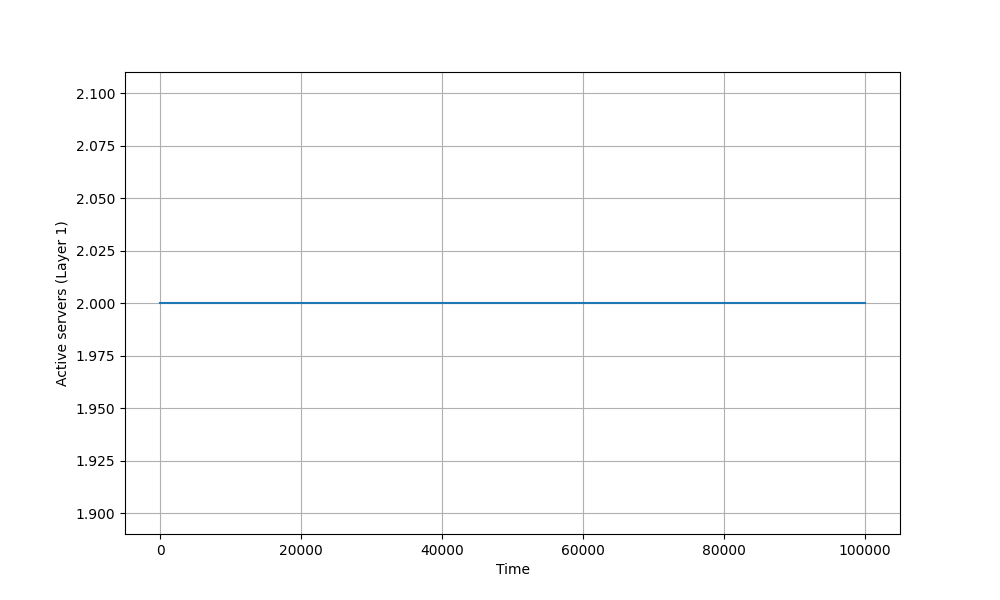
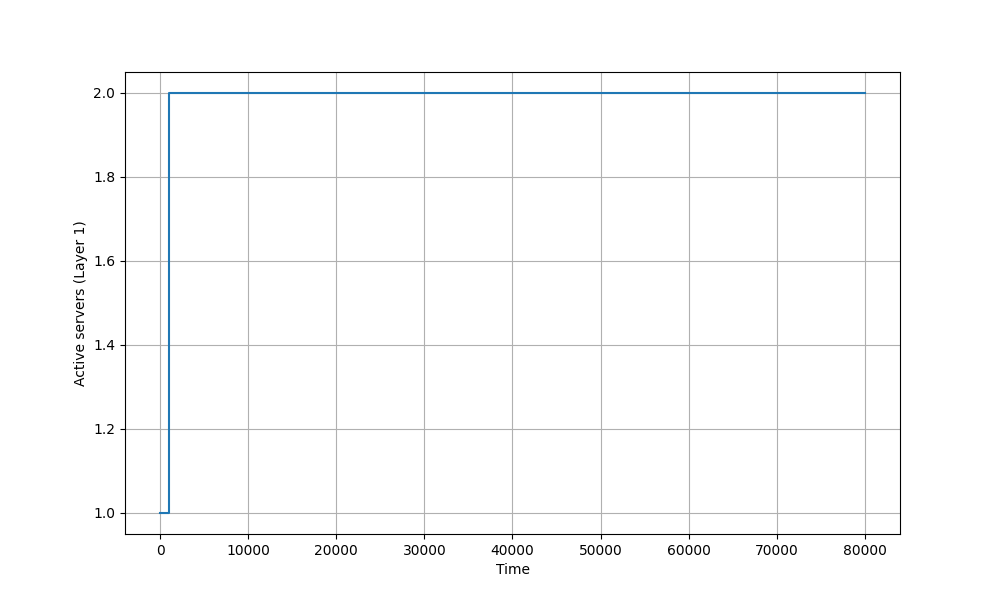
seconda prova sim scaling

diff --git a/simulation/scaling_simulator.py b/simulation/scaling_simulator.py
@@ -55,14 +55,14 @@ def update_completion_B(jobs, current_time, m_servers: int):
  
 def adjust_servers_layer1(stats, lambda_current):
     """Aggiunge o rimuove server nel layer 1 in base a λ corrente e ai parametri RHO_UP/RHO_DOWN."""
-    servers = stats.layer1_servers
+    stats.layer1_servers
 
     # se non ci sono server accesi, accendiamo il primo
-    if not servers:
-        servers.append({"id": 0, "jobs": {}})
+    if not stats.layer1_servers:
+        stats.layer1_servers.append({"id": 0, "jobs": {}})
         return
 
-    num = len(servers)
+    num = len(stats.layer1_servers)
     mu = BASE_MU_LAYER1      # tasso di servizio per UN server del layer 1
 
     if num <= 0:
@@ -72,18 +72,17 @@ def adjust_servers_layer1(stats, lambda_current):
 
     # scala in su
     if rho > RHO_UP and num < MAX_SERVERS:
-        new_id = max(s["id"] for s in servers) + 1
-        servers.append({"id": new_id, "jobs": {}})
-        print(f"[SCALING L1] +1 server, tot={len(servers)}")
+        new_id = max(s["id"] for s in stats.layer1_servers) + 1
+        stats.layer1_servers.append({"id": new_id, "jobs": {}})
+        print(f"[SCALING L1] +1 server, tot={len(stats.layer1_servers)}")
 
     # scala in giù
     elif rho < RHO_DOWN and num > MIN_SERVERS:
-        # rimuovo solo server vuoti
-        for s in servers:
-            if not s["jobs"]:
-                servers.remove(s)
-                print(f"[SCALING L1] -1 server, tot={len(servers)}")
-                break
+    # nel modello pooled, non usiamo più s["jobs"]
+    # rimuovo un server solo se ci sono meno job che server
+        if len(stats.B_jobs) < num:
+            stats.layer1_servers.pop()
+            print(f"[SCALING L1] -1 server, tot={len(stats.layer1_servers)}")
 
 
 
@@ -130,7 +129,7 @@ def execute(stats, stop):
         for job in stats.A_jobs.values():
             job["rem"] -= delta
 
-    mB = len(stats.layer1_servers) if hasattr(stats, "layer1_servers") and stats.layer1_servers else 1 # numero di server attivi nel layer 1
+    mB = len(stats.layer1_servers) if stats.layer1_servers else 1 # numero di server attivi nel layer 1
     # --- B: aggiornamento aree e servizio (PS) ---
     if stats.B_jobs:
         nB = len(stats.B_jobs) # numero di job in B
@@ -146,7 +145,7 @@ def execute(stats, stop):
 
     # --- SPIKE: aggiornamento aree e servizio (PS) ---
     if stats.spike_server:
-        nS = len(stats.spike_server)
+        nS = len(stats.spike_server) # numero di job nello spike server
         stats.area_spike.node += dt * nS
         stats.area_spike.service += dt
         delta = dt / nS
@@ -164,15 +163,7 @@ def execute(stats, stop):
     if stats.t.current == stats.t.arrival:
         print(f"ARRIVAL | current: {stats.t.current:.4f}")
 
-        # SCALING ORIZZONTALE: aggiorno il numero di server del layer 1
-        # SCALING ORIZZONTALE: usa lambda variabile
-        lam_now = lambda_scaling(stats.t.current)
-        adjust_servers_layer1(stats, lambda_current=lam_now)
-
-        # (opzionale) salva lambda per i plot
-        if not hasattr(stats, "lambda_times"):
-            stats.lambda_times = []
-        stats.lambda_times.append((stats.t.current, lam_now))
+        
 
         jid = stats.next_job_id
         stats.next_job_id += 1
@@ -199,6 +190,16 @@ def execute(stats, stop):
         if job["classe"] == 1:
             # job classe 1 → B oppure SPIKE in base a SI
             # SI = numero di job nel layer 1 (qui usiamo B come layer1 aggregato)
+
+            # SCALING ORIZZONTALE: aggiorno il numero di server del layer 1
+            # SCALING ORIZZONTALE: usa lambda variabile
+            lam_now = lambda_scaling(stats.t.current)
+            adjust_servers_layer1(stats, lambda_current=lam_now)
+
+            # (opzionale) salva lambda per i plot
+            if not hasattr(stats, "lambda_times"):
+                stats.lambda_times = []
+            stats.lambda_times.append((stats.t.current, lam_now))
 
             SI = len(stats.B_jobs)
             stats.SI_samples.append(SI)
@@ -378,72 +379,6 @@ def scaling_finite_simulation(stop):
     return return_stats(stats, horizon, s), stats
 
 
-# =========================
-#   SIMULAZIONE INFINITA
-# =========================
-
-def scaling_infinite_simulation(stop):
-    """
-    Simulazione INFINITA con scaling dinamico.
-    
-    """
-    global return_times_P
-    return_times_P = []
-
-    batch_stats = ReplicationStats()
-
-    s = getSeed()
-    reset_arrival_temp_scaling()
-
-    stats = SimulationStats()
-    stats.reset(vs.START)
-
-    stats.layer1_servers = [{"id": 0, "jobs": {}}]
-
-    stats.t.arrival = GetArrivalScaling(stats.t.current)
-
-    start_time = stats.t.current
-
-    while len(batch_stats.A_avg_wait) < vs.K:          # ciclo sui batch
-        stats.job_arrived = 0                          # reset counter arrivi batch
-        stats.index_A1 = stats.index_A2 = stats.index_A3 = 0
-        stats.index_B = stats.index_P = 0
-
-        while stats.job_arrived < vs.B:                # completamenti per batch
-            execute(stats, stop)
-
-        # Fine batch
-        stop_time = stats.t.current - start_time
-        start_time = stats.t.current
-
-        stats.calculate_area_queue()
-        # calcola metriche batch
-        comp_A = stats.index_A1 + stats.index_A2 + stats.index_A3
-        comp_B = stats.index_B
-
-        A_wait = (stats.area_A.node - stats.area_A.service) / comp_A if comp_A > 0 else 0.0
-        B_wait = (stats.area_B.node - stats.area_B.service) / comp_B if comp_B > 0 else 0.0
-        A_resp = (stats.area_A.node / comp_A) if comp_A > 0 else 0.0
-        B_resp = (stats.area_B.node / comp_B) if comp_B > 0 else 0.0
-
-        # salva nel batch corrente
-        stats.A_wait_times.append((stats.t.current, A_wait))
-        stats.B_wait_times.append((stats.t.current, B_wait))
-        stats.A_resp_times.append((stats.t.current, A_resp))
-        stats.B_resp_times.append((stats.t.current, B_resp))
-
-        # aggiungi batch alle statistiche globali
-        rep_stats = return_stats(stats, stop_time, s)
-        # scrivo le statistiche del batch su file (analogo a quanto fatto nel modello base)
-        write_file(rep_stats, "scaling_model_infinite_results.csv")
-        append_stats(batch_stats, rep_stats, stats)
-
-        
-
-    print("End infinite simulation (batch means)")
-    return batch_stats
-
-    
 
 def return_stats(stats, horizon, s):
     """Ritorna le statistiche finali della simulazione"""

diff --git a/main.py b/main.py
@@ -57,45 +57,32 @@ def start_scaling_sim():
     """
     Avvia la simulazione con SCALING (orizzontale + spike),
     in modo analogo a start_simulation() per il modello base.
-    Usa vs.SIM_TYPE per scegliere finita o infinita.
     """
     try:
         # SIMULAZIONE FINITA CON SCALING
-        if vs.SIM_TYPE == FINITE:
-            replicationStats = ReplicationStats()
-            file_name = "scaling_model_finite_results.csv"
-            print("FINITE SCALING SIMULATION")
+        
+        replicationStats = ReplicationStats()
+        file_name = "scaling_model_finite_results.csv"
+        print("FINITE SCALING SIMULATION")
 
-            stop = STOP
-            clear_file(file_name)
+        stop = STOP
+        clear_file(file_name)
 
-            for i in range(vs.REPLICATIONS):
-                print(f"start scaling replication {i+1}")
-                results, stats = scaling_finite_simulation(stop)  # definita in scaling_simulator.py
+        for i in range(vs.REPLICATIONS):
+            print(f"start scaling replication {i+1}")
+            results, stats = scaling_finite_simulation(stop)  # definita in scaling_simulator.py
 
-                plot_lambda_t(stats.lambda_times, vs.SIM_TYPE, "lambda_t")
-                plot_system_avg_response_time_t(stats.system_resp_times, vs.SIM_TYPE, "system_resp_t")
-                plot_active_servers_t(stats.layer1_servers_times, vs.SIM_TYPE, "servers_t")
+            plot_lambda_t(stats.lambda_times, vs.SIM_TYPE, "lambda_t")
+            plot_system_avg_response_time_t(stats.system_resp_times, vs.SIM_TYPE, "system_resp_t")
+            plot_active_servers_t(stats.layer1_servers_times, vs.SIM_TYPE, "servers_t")
 
-                print(f"end scaling replication {i+1}")
-                write_file(results, file_name)
-                append_stats(replicationStats, results, stats)
+            print(f"end scaling replication {i+1}")
+            write_file(results, file_name)
+            append_stats(replicationStats, results, stats)
 
-
-        # SIMULAZIONE INFINITA CON SCALING
-        elif vs.SIM_TYPE == INFINITE:
-            file_name = "scaling_model_infinite_results.csv"
-            print("INFINITE SCALING SIMULATION")
-
-            stop = STOP_INFINITE
-            clear_file(file_name)
-
-            batch_stats = scaling_infinite_simulation(stop)  # definita in scaling_simulator.py
-            print("End infinite SCALING simulation")
-
-        else:
-            print("Type not valid (SIM_TYPE)")
-            exit(1)
+        
+       
+        exit(1)
 
     except Exception as e:
         print("Error during scaling simulation:")

diff --git a/utils/variables.py b/utils/variables.py
@@ -37,7 +37,7 @@ BASE = 1
 MODEL = BASE
 
 START = 0.0
-STOP = 100000 #86400  # terminal (close the door) time
+STOP = 80000 #86400  # terminal (close the door) time
 STOP_ANALYSIS = 300000
 STOP_INFINITE = float('inf')
 
@@ -48,7 +48,7 @@ REPLICATIONS = 10
 PRINT_PLOT_BATCH = 1
 
 # --- PARAMETRI DI SCALING ---
-SImax = 10**9 #calcolato analiticamente usando la distribuzione geometrica
+SImax = 9 #calcolato analiticamente usando la distribuzione geometrica
 MIN_SERVERS = 1
 MAX_SERVERS = 2 #calcolato analiticamente 
 RHO_UP = 0.8 #rho target per scalare up

diff --git a/utils/sim_utils.py b/utils/sim_utils.py
@@ -10,19 +10,7 @@ arrivalTemp = vs.START
 arrivalTempScaling = vs.START
 
 def get_simulation(model):
-    # print("Select model:")
-    # print("1. Base model")
-    # # print("2. Better")
-    # # print("3. Standard Scalability")
-    # # print("4. Better Scalability")
-    # model = int(input("Select the number: "))
-
-    # if model < 1 or model > 4:
-    #     raise ValueError()
-
-    # if model == 3 or model == 4:
-    #     sim = 1
-    # else:
+    
     print("Select simulation:")
     print("1. Finite")
     print("2. Infinite")
